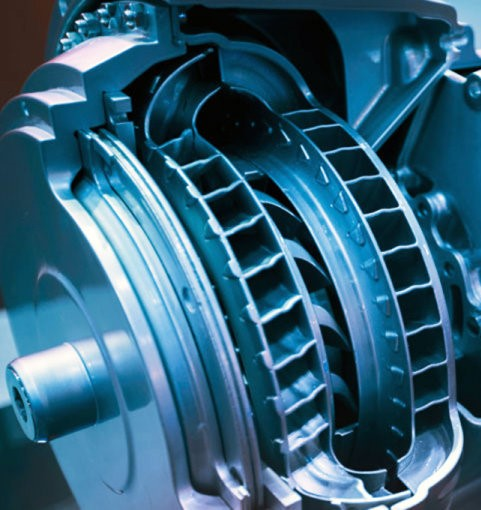
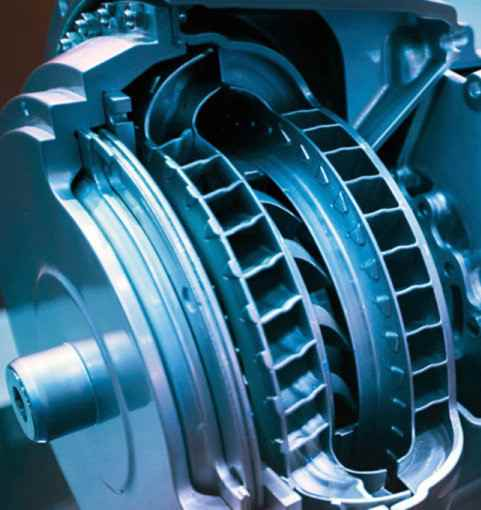
img more

diff --git a/quap/templates/shop-left-sidebar.html b/quap/templates/shop-left-sidebar.html
@@ -30,8 +30,34 @@
                 <div class="row">
                     <div class="col-lg-3 col-md-5 order-2 order-lg-1 order-md-1">
                         <div class="uren-sidebar-catagories_area">
-
                             <div class="uren-sidebar_categories">
+                                <div>
+                                <form action="/get-instant-quote" method="POST" enctype="multipart/form-data">
+                                    {% csrf_token %}
+                                    <label>Select Brand</label>
+                                        <select name="brand" id="" class="form-control">
+                                            {% for brand in brands %}
+                                            <option value="{{brand.brand_name}}" class="form-control">{{brand.brand_name}}</option>
+                                            {% endfor %}
+                                        </select>
+                                    <label>Choose Part</label>
+                                        <select name="brand" id="" class="form-control">
+                                            {% for brand in brands %}
+                                            <option value="{{brand.brand_name}}" class="form-control">{{brand.brand_name}}</option>
+                                            {% endfor %}
+                                        </select>
+                                    <label for="">Select Manufacturing Year</label>
+                                    <select name="year" id="" class="form-control">
+                                            {% for ye in years %}
+                                            <option value="{{ye.year_name}}">{{ye.year_name}}</option>
+                                            {% endfor %}
+                                    </select>
+
+                                    <br>
+                                    <button class="uren-btn">Search</button>
+                                </form>
+
+                            </div>
                                 <div style="padding: 10px 0px;">
                                     <form action="/used-auto-parts-us" method="POST" enctype="multipart/form-data">
                                         {% csrf_token %}

diff --git a/quap/templates/index.html b/quap/templates/index.html
@@ -459,7 +459,7 @@
                                 <div class="slide-inner">
                                     <div class="slide-image_area">
                                         <a href="/used-auto-parts-us">
-                                            <img src="{% static 'assets/images/featured-categories/engine.png' %}" alt="Uren's Featured Categories">
+                                            <img src="{% static 'assets/images/featured-categories/engine.jpg' %}" alt="Uren's Featured Categories">
                                         </a>
                                     </div>
                                     <div class="slide-content_area">
